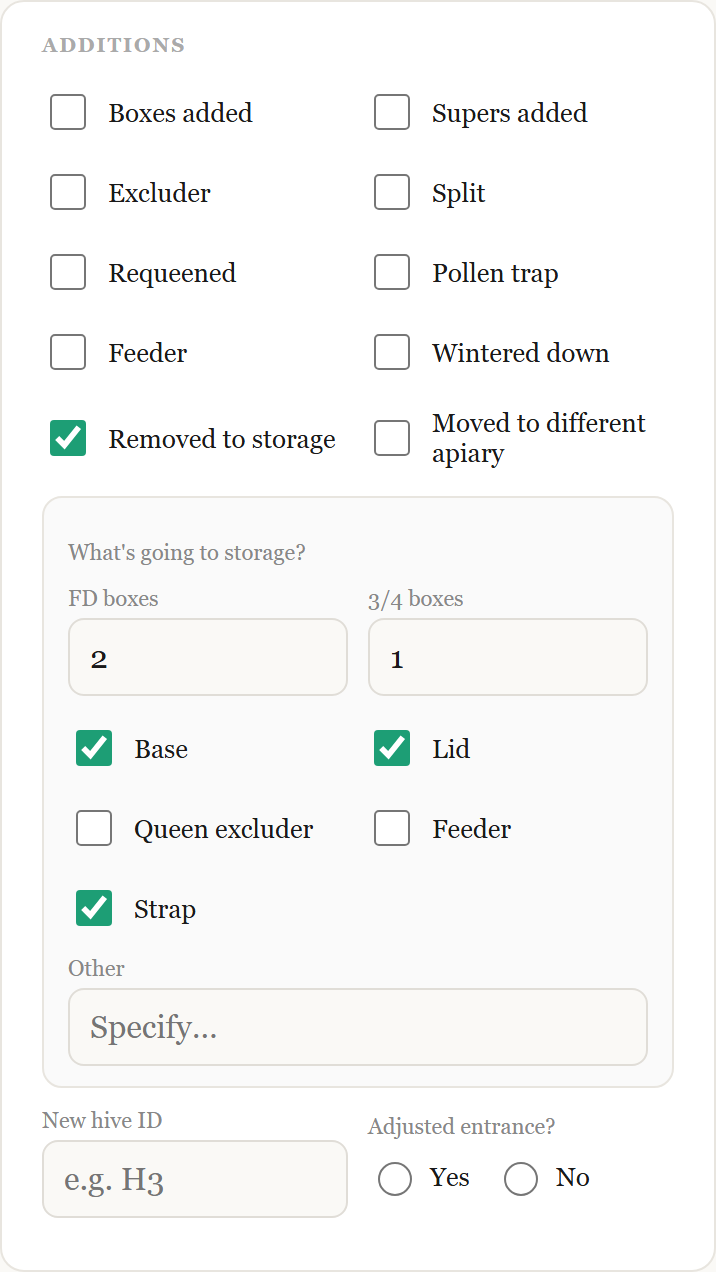
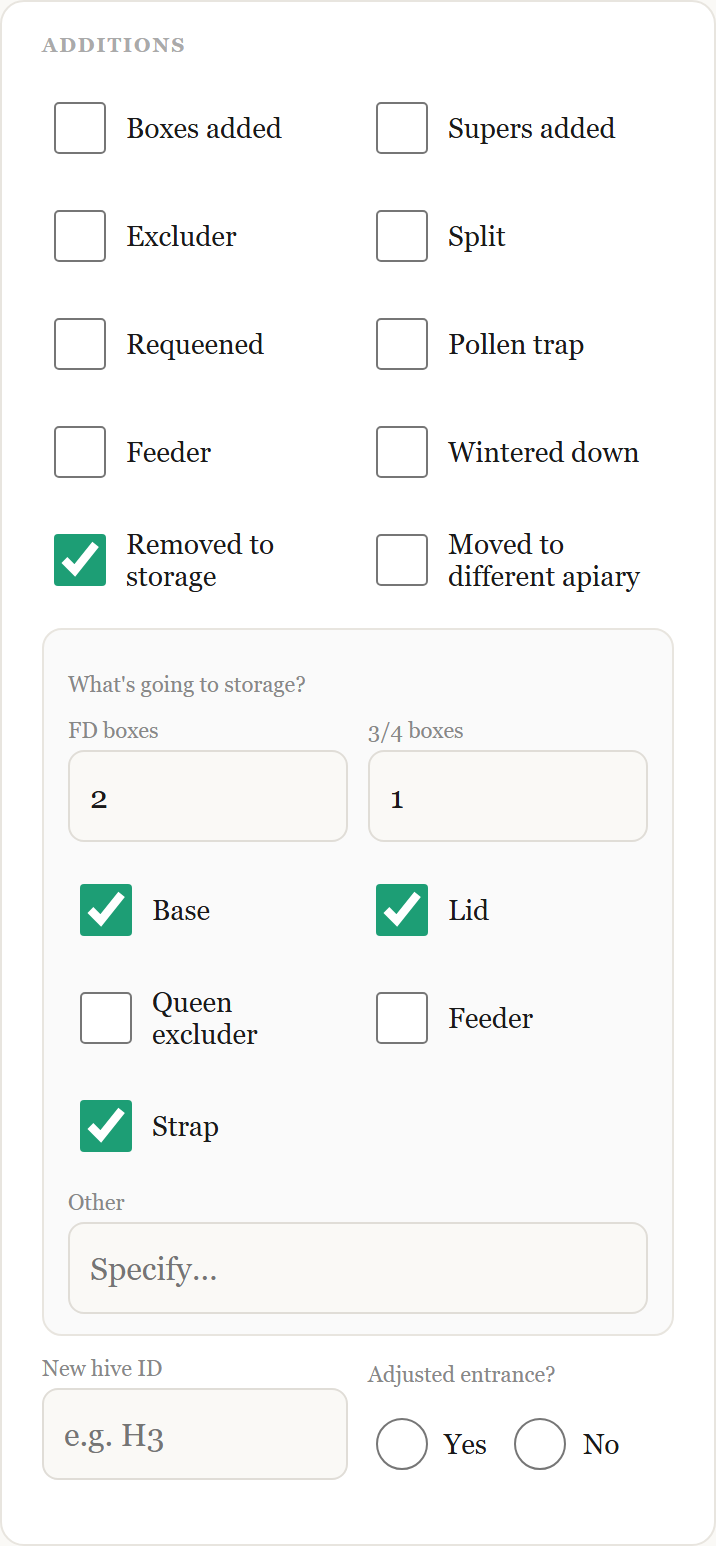
Refresh README and screenshots; CI triggers; package name

diff --git a/README.md b/README.md
@@ -10,13 +10,17 @@ An offline-first hive inspection logbook for mobile and tablet. No signal needed
 
 Sample data only; the hives shown are made up.
 
-| Inspection form | Inspection log |
+| Inspection form | Mite check |
 | --- | --- |
-| <img src="docs/screenshots/form.png" alt="The BeeYardLog inspection form on a phone, with Hive details, Weather and Condition cards" width="300"> | <img src="docs/screenshots/log.png" alt="The inspection log with three entries, the first expanded to show every recorded field" width="300"> |
+| <img src="docs/screenshots/form.png" alt="The BeeYardLog inspection form on a phone: Yard # and Hive ID, then the Weather and Condition cards" width="300"> | <img src="docs/screenshots/mite.png" alt="The Mite check card: alcohol wash, 300 bees and 9 mites, showing 3 mites per 100 bees with a red note to consider treating" width="300"> |
 
-| Save check | Storage details |
+| Inspection log | Fixing an entry |
 | --- | --- |
-| <img src="docs/screenshots/warning.png" alt="A prompt saying the Temperament field was left blank, with Go back and Add anyway buttons" width="300"> | <img src="docs/screenshots/storage.png" alt="The Additions card with Removed to storage ticked, showing box counts and gear checkboxes" width="300"> |
+| <img src="docs/screenshots/log.png" alt="The inspection log, newest first, with a search box and a mite result on each row, red for the one over the treatment line" width="300"> | <img src="docs/screenshots/edit.png" alt="The Edit details panel for a saved entry, with Yard, Hive ID, date, temperature, mite counts and notes" width="300"> |
+
+| Checks before saving | Storage details |
+| --- | --- |
+| <img src="docs/screenshots/checks.png" alt="A brood coverage of 150 highlighted in red with the message that it must be between 0 and 100" width="300"> | <img src="docs/screenshots/storage.png" alt="The Additions card with Removed to storage ticked, showing box counts and gear checkboxes" width="300"> |
 
 ## Highlights
 
@@ -110,7 +114,7 @@ npx playwright install chromium   # one-off: download the test browser
 npm run test:e2e                  # starts the dev server and clicks through the app
 ```
 
-The e2e suite covers: add an inspection, Hive ID required, storage fields show, delete an entry, and data surviving a reload. Playwright starts the dev server itself, so you don't need `npm run dev` running first.
+The unit tests cover the pure logic (validation, mite maths, the backup reminder, building the Excel file, drafts, search and sorting, syncing between open copies). The end-to-end suite clicks through the real app: saving and validation, editing an entry, backup and restore, Excel export, working offline, two open copies staying in step, the date after midnight, search, accessibility, button sizes, and the content-security policy. Playwright starts the dev server itself, so you don't need `npm run dev` running first.
 
 ### Troubleshooting
 
@@ -125,87 +129,91 @@ Open the dev server URL on your phone/tablet browser (same wifi network, or use 
 
 ## What it does
 
-- **Inspection form**, organized into cards: Hive details, Weather, Condition, Treatments (varroa/mite meds + AFB check), Feeding, Additions, Food stores, Extraction, Notes.
-- **AFB (American Foulbrood) tracking** is split into three deliberate steps so it can't be gamed: "AFB check performed" (routine, tick every time), "AFB signs found" (the real alert, styled in red), and — only shown if signs are found — "Reported to authority (required within 7 days)".
-- **Inspection log** at the bottom, tap any entry to expand and see every field that was filled in (not just the 3-field summary).
-- **Validation before saving**: Hive ID is required (hard stop, can't save without it). Temperament, Population, Queen sighted, and Honey level are soft-checked — if any are blank you get a one-tap "Add anyway" or "Go back" (which scrolls straight to the first blank field).
-- **Export all to Excel** — produces a real `.xlsx` with every logged inspection, one column per field, ready to open in Excel/Sheets.
-- **Backup (JSON) / Restore backup** — a separate, additive safety net (not for viewing — that's what Excel export is for). Backup downloads a `.json` snapshot of the whole log; Restore reads one back in without wiping what's already there. Useful for moving your log to a new phone.
-- **Backup reminder banner** — appears once 10+ inspections have been logged since your last JSON backup, so data isn't only sitting on one device.
+- **Inspection form**, organised into cards: Hive details (Yard #, Hive ID, date), Weather, Condition, Mite check, Treatments (varroa treatments + AFB check), Feeding, Additions, Food stores, Extraction, Notes.
+- **AFB (American Foulbrood) tracking** is split into three deliberate steps so it can't be gamed: "AFB check performed" (routine, tick every time), "AFB signs found" (the real alert, styled in red), and, only shown if signs are found, "Reported to authority (required within 7 days)".
+- **Mite check** for alcohol wash or sugar roll: works out mites per 100 bees, flags a count at or above the treatment line, and records "Not done" when a visit skipped it.
+- **Checks before saving.** Hive ID is required. Clearly wrong values (brood coverage over 100, negative counts, oddly written numbers, impossible or future dates) are stopped: the screen jumps to the first problem and explains it beside the field. Temperament, Population, Queen sighted and Honey level are soft-checked with a one-tap "Add anyway".
+- **Inspection log**, newest first, with a search box once it has six or more entries. Tap an entry to see every field, or **Edit details** to correct a typed value. A mite result shows on each row, red at or above the line.
+- **Export all to Excel** produces a real `.xlsx`, one column per field, with real numbers and dates.
+- **Backup (JSON) / Restore backup** is a separate, additive safety net. Backup downloads a snapshot of the whole log; Restore adds a snapshot back without wiping what's there. A banner reminds you after 10 new or corrected entries.
 
 ## How data is stored
 
-All inspection data lives in **IndexedDB** (via the `idb` library), not localStorage — this matters at scale: localStorage caps out around 5MB per site (roughly 10,000 entries), which a busy commercial operation doing rounds every 3-4 weeks across thousands of hives could hit within a season. IndexedDB's practical ceiling is closer to hundreds of MB, so it scales from hobbyist to commercial without a rewrite.
+All inspection data lives in **IndexedDB** (via the `idb` library), not localStorage. This matters at scale: localStorage caps out around 5MB per site (roughly 10,000 entries), which a busy commercial operation doing rounds every 3-4 weeks across thousands of hives could hit within a season. IndexedDB's practical ceiling is closer to hundreds of MB, so it scales from hobbyist to commercial without a rewrite.
 
 If you have old data from before this switch (saved under `localStorage["hive_inspection_log"]`), it gets migrated into IndexedDB automatically, once, the first time the app loads.
 
-Two small pieces of data live in localStorage (not the log itself):
-- `hive_last_backup_id` — the id of the newest entry in your last JSON backup, used to work out the "N since backup" reminder. (Older versions stored a count in `hive_last_backup_count`; it is converted once automatically.)
-- `yardbook_form_draft` — the half-filled form, so it survives a page reload. It is removed when you save the entry or tap "Discard draft".
+If the app is open in two places at once (the installed app and a browser tab), they stay in step: each tells the other when the log changes, and each re-reads the log when it is shown again.
+
+A few small pieces of data live in localStorage (not the log itself):
+- `hive_last_backup_id`: the id of the newest entry in your last JSON backup, used to work out the "since backup" reminder. (Older versions stored a count in `hive_last_backup_count`; it is converted once automatically.)
+- `hive_edits_since_backup`: how many already-backed-up entries have been corrected since, because the backup file still holds the old version.
+- `yardbook_form_draft`: the half-filled form, so it survives a page reload. It is removed when you save the entry or tap "Discard draft". The key keeps the app's earlier working name on purpose, so drafts saved before the rename aren't lost.
 
 ## Project structure
 
 ```
 src/
-  App.jsx                  # top-level composition, orchestrates everything
-  App.css                  # shared design tokens + section/button/log styles
-  index.css                # global reset
-  main.jsx                 # React entry point
+  App.jsx                    # composes the page; holds no logic itself
+  App.css, index.css         # design tokens and styles
+  main.jsx                   # entry point; registers the service worker in production
 
-  NavBar/
-    Header.jsx / .css      # app title + "saved" pill
+  NavBar/Header.jsx          # app title + "saved" pill
 
-  components/
-    HiveDetailsSection.jsx
-    WeatherSection.jsx
-    ConditionSection.jsx
-    TreatmentsSection.jsx  # mite treatments + AFB check/signs/reported
-    FeedingSection.jsx     # syrup/dry feed/patties/nutrition boost
-    AdditionsSection.jsx
-    FoodStoresSection.jsx
-    ExtractionSection.jsx
+  components/                # one file per form card, plus the log and notices
+    HiveDetailsSection.jsx, WeatherSection.jsx, ConditionSection.jsx,
+    MiteCheckSection.jsx, TreatmentsSection.jsx, FeedingSection.jsx,
+    AdditionsSection.jsx, FoodStoresSection.jsx, ExtractionSection.jsx,
     NotesSection.jsx
-    InspectionLog.jsx      # expandable log list
-    ActionButtons.jsx      # add/export/backup/restore/clear
-    BackupReminder.jsx     # "N since backup" banner
-    MissingFieldsWarning.jsx
-    ui/
-      RadioGroup.jsx
-      LevelButtons.jsx     # High/Average/Low pill buttons
+    InspectionLog.jsx        # newest-first list, search, mite chips
+    EntryEditor.jsx          # "Edit details" panel
+    ActionButtons.jsx        # add / export / backup / restore / clear
+    BackupReminder.jsx, DraftNotice.jsx, MissingFieldsWarning.jsx,
+    InputProblems.jsx, FieldError.jsx, problemsContext.js
+    ui/                      # RadioGroup, LevelButtons
 
-  hooks/
-    useHiveLog.js           # all state, validation, and actions live here
+  hooks/useHiveLog.js        # all state and actions: form, log, drafts, sync, backup
 
-  db/
-    hiveDb.js               # IndexedDB layer (via idb) + legacy migration
+  db/hiveDb.js               # IndexedDB layer (via idb) + legacy migration
 
-  utils/
-    hiveForm.js              # initialForm() shape + formToRow() column mapping
-    backup.js                 # JSON backup download/read
-    omitId.js
+  utils/                     # pure logic, each with unit tests
+    hiveForm.js              # form shape + saved-row mapping
+    validation.js            # checks before saving (numbers, dates, mites)
+    mites.js                 # mites per 100 bees, treatment line
+    editEntry.js             # which fields can be corrected, and how
+    logView.js               # newest-first sorting and search
+    excel.js, exportRows.js  # the Excel export (real numbers and dates)
+    backup.js, backupReminder.js, draft.js, persist.js, sync.js, date.js, omitId.js
+
+public/                      # service worker (sw.js), manifest, icons
+tests/                       # Playwright end-to-end tests
+scripts/                     # icon generation
+docs/screenshots/            # README images (made-up sample data)
+.github/workflows/ci.yml     # lint, unit tests, build and end-to-end tests on every push
 ```
 
-`App.jsx` only composes components and wires props from `useHiveLog()` — it holds no logic itself. If you want to change what a field does, `useHiveLog.js` and `hiveForm.js` are the two files that matter; if you want to change what a section looks like, its component in `components/` is the only file you need.
+`App.jsx` only composes components and wires props from `useHiveLog()`. If you want to change what a field does, `useHiveLog.js`, `hiveForm.js` and `validation.js` are the files that matter; to change how a section looks, its component in `components/` is the only file you need.
 
 ## Known limitations / things to watch
 
-- **Mobile browser data isn't automatically backed up anywhere.** IndexedDB survives app updates and phone restarts, but not a factory reset, "clear browsing data," or switching browsers/phones. The backup reminder exists because of this — encourage regular JSON backups, and get that file off the phone (cloud storage, email) since a backup sitting only in Downloads dies with the phone too.
-- **No multi-device sync.** Each phone/browser has its own independent log. If a commercial operation has multiple people logging, each device's data is separate — combine them via Restore backup on one device, or just keep separate exports.
+- **Mobile browser data isn't automatically backed up anywhere.** IndexedDB survives app updates and phone restarts, but not a factory reset, "clear browsing data," or switching browsers/phones. The backup reminder exists because of this: encourage regular JSON backups, and get that file off the phone (cloud storage, email), since a backup sitting only in Downloads dies with the phone too.
+- **No sync between devices.** Each phone/browser has its own independent log. (Two open copies on the *same* phone do stay in step.) If several people log for one operation, each device's data is separate: combine them with Restore backup on one device, or keep separate exports.
+- **Tested on Android (Chrome) and desktop browsers; iPhone Safari testing is still to do.** Installing and offline use may behave differently on iOS. Safari can clear a website's stored data after about a week of not being used, unless the app has been added to the Home Screen, so on an iPhone keep it on the Home Screen and back up regularly.
 - **AFB reporting deadlines vary by region.** The "7 days" language matches NZ's notifiable-disease requirement; adjust the label in `TreatmentsSection.jsx` if a different jurisdiction's rule applies.
+- **The mite treatment line is fixed at 3 per 100 bees** (a constant in `src/utils/mites.js`). It is a reminder, not advice.
 
-## Ideas discussed but not (yet) built
+## Ideas for later
 
-- Switching the storage layer to Dexie.js instead of `idb`, for built-in filtering/search (e.g. "show me hive H23's history"). Not needed yet since even 20,000+ rows filter fast enough in plain JS at this app's scale — worth revisiting if a search/filter UI gets requested.
-- Voice/spoken reminders for hands-busy moments (gloves on, mid-inspection). Skipped for the backup reminder specifically since that's a post-inspection nudge, not needed mid-task — but a real option if a "confirm save" voice prompt is ever wanted while hands are full.
+- A "Summary" sheet in the Excel export (entries per hive, latest mite result).
+- The mite treatment line as a setting rather than a constant.
+- Undo for deleting an entry, and a warning for a duplicate Hive ID on the same date.
+- A "new version available, reload" prompt when the app updates.
+- Voice or spoken reminders for hands-busy moments (gloves on, mid-inspection).
+- A two-column layout for landscape tablets.
 
 ## A note on dependencies
 
-`npm audit` reports two known issues in the `xlsx` (SheetJS) package, which BeeYardLog uses for **Export all to Excel**:
-
-- a prototype-pollution issue ([GHSA-4r6h-8v6p-xvw6](https://github.com/advisories/GHSA-4r6h-8v6p-xvw6)), which the advisory says affects **reading** crafted spreadsheet files and not export-only use;
-- a regular-expression denial-of-service issue ([GHSA-5pgg-2g8v-p4x9](https://github.com/advisories/GHSA-5pgg-2g8v-p4x9)).
-
-BeeYardLog only **creates** spreadsheets from your own data. It never opens or parses one (Restore uses JSON backups), so these issues don't apply to how it uses the library. The fixed versions are published only on SheetJS's own site, not on npm, so `npm audit` can't offer an upgrade. Moving to the SheetJS-hosted build is on the to-do list.
+The Excel export uses SheetJS (`xlsx`). The copy on npm is out of date (0.18.5, with known security advisories), so BeeYardLog installs the current release (0.20.3) from SheetJS's own site, as their documentation recommends, and `npm audit` is clean. It only **creates** spreadsheets from your own data and never opens one (Restore uses JSON backups).
 
 ## Licence
 
